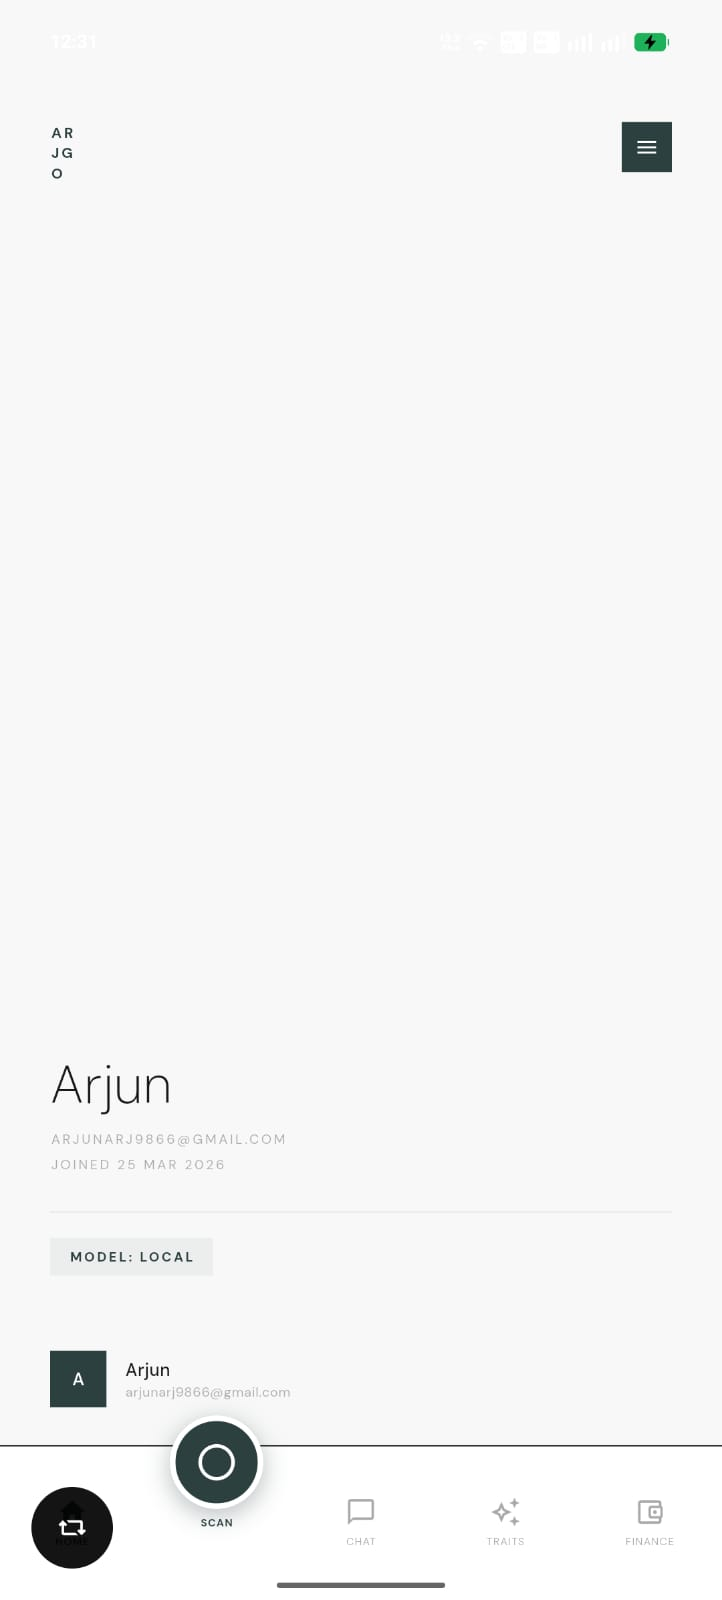
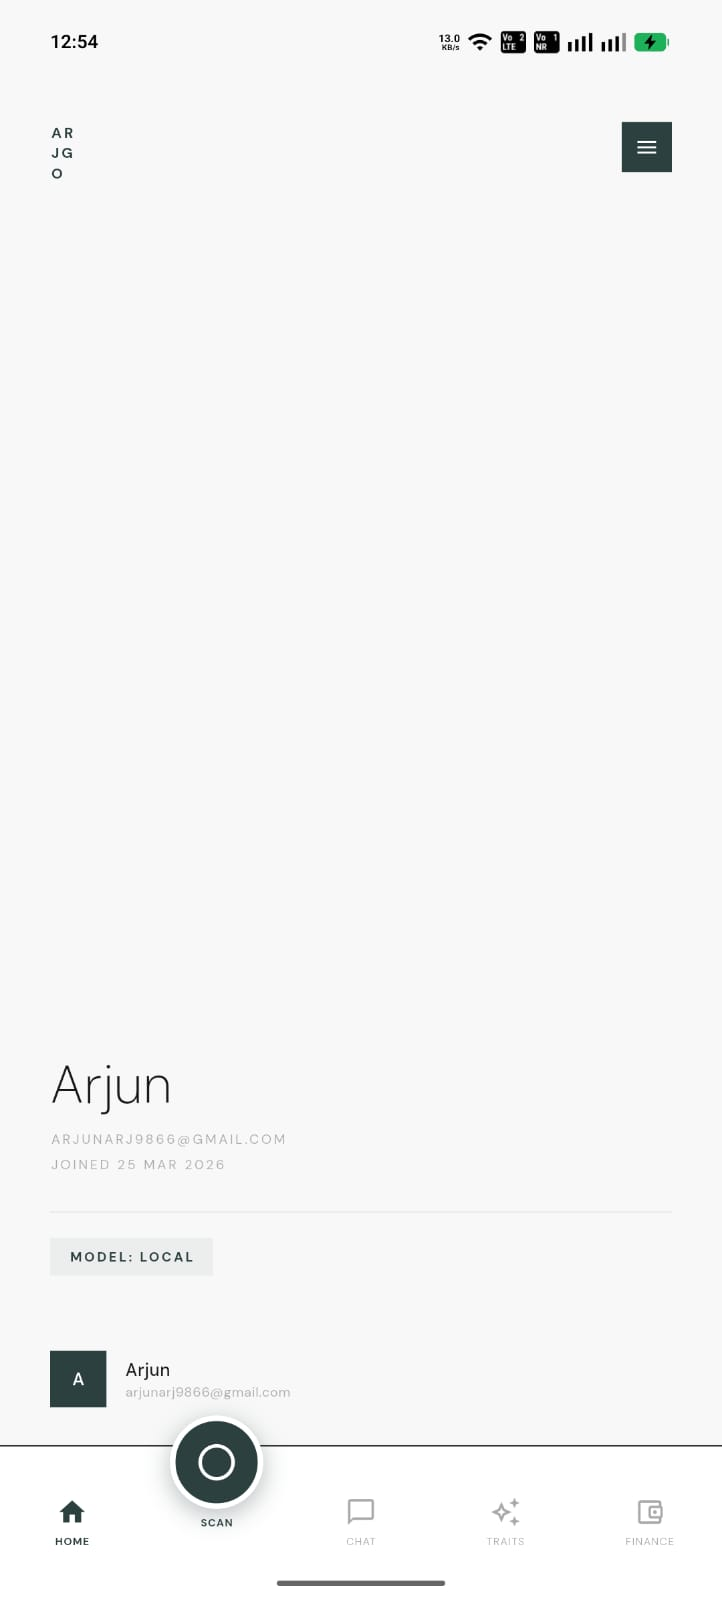
updated

diff --git a/README.md b/README.md
@@ -6,7 +6,7 @@ Arjgo is a minimalist, high-performance Flutter application designed to provide 
 
 ## Visual Overview
 
-| Home Screen | AI Scan | Private Chat |
+| Home Screen | Chat Interface| Finance Management|
 | :---: | :---: | :---: |
 | ![Home Screen](screenshots/screenshot1.jpeg) | ![Chat Interface](screenshots/screenshot3.jpeg) | ![Finance Management](screenshots/screenshot5.jpeg) |
 
